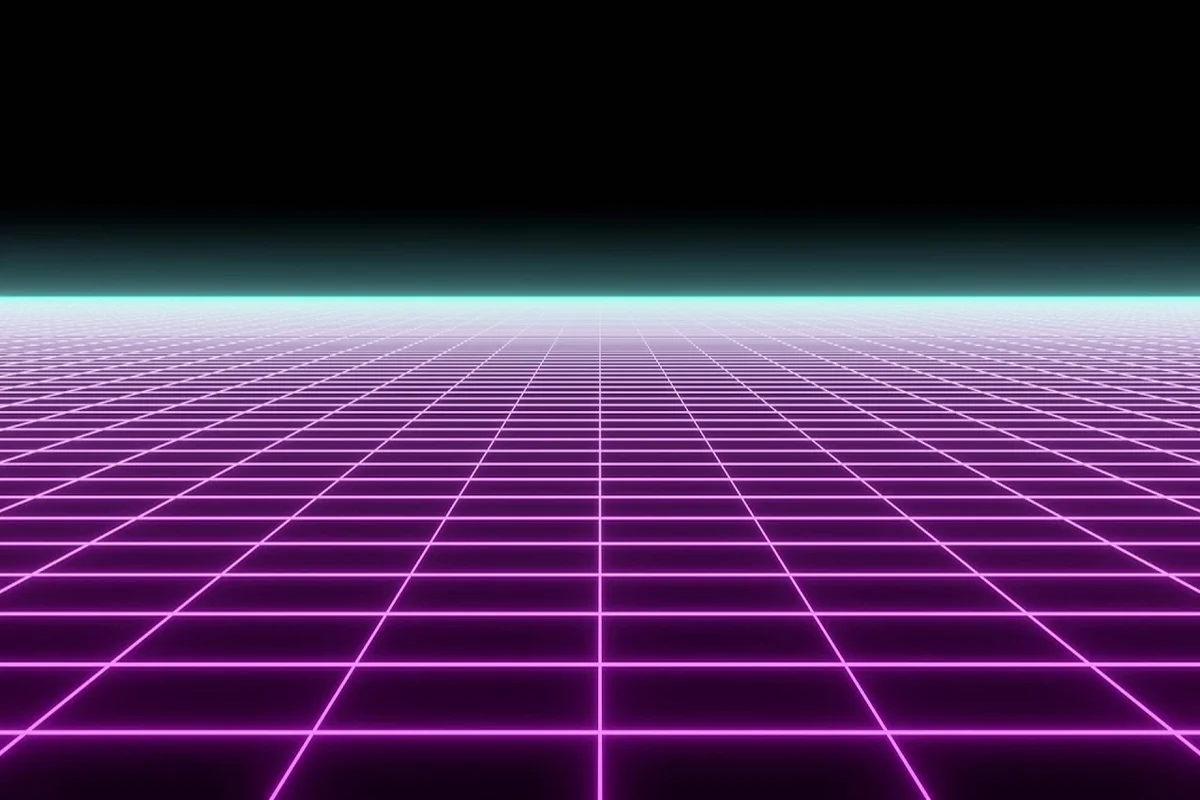
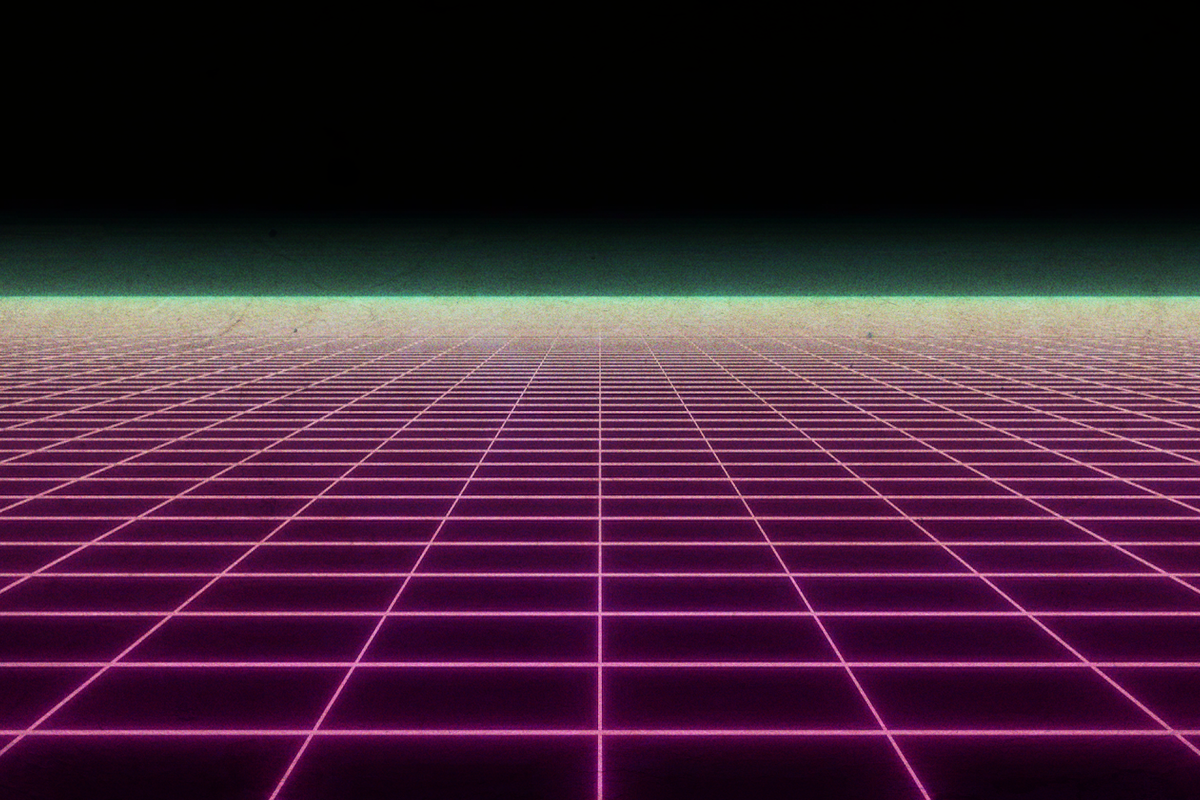
changed background & text

diff --git a/menu.py b/menu.py
@@ -1,4 +1,6 @@
 from PyQt5 import QtWidgets, QtCore, QtGui
+from PyQt5.QtGui import QFont, QFontDatabase
+from PyQt5.QtWidgets import QApplication
 
 from settings import SettingsWindow
 
@@ -8,25 +10,30 @@ class Menu(QtWidgets.QFrame):
         super().__init__()
         self.main_window = main_window
         self.settingsWindow = SettingsWindow()
+        self.setObjectName("MenuWindow")
+        self.setStyleSheet("#MenuWindow{border-image:url(resources/background_menu.png)}")
 
-        font = QtGui.QFont()
-        font.setPointSize(28)
+        QFontDatabase.addApplicationFont("resources/BNKGOTHM.TTF")
+        font = QtGui.QFont("BankGothic Md BT", 32)
+        style = "background-color: rgba(255, 255, 255, 0); color: rgb(255, 255, 255);"
 
         self.start_btn = QtWidgets.QPushButton(self)
         self.start_btn.setGeometry(QtCore.QRect(450, 350, 300, 100))
         self.start_btn.setFont(font)
         self.start_btn.setObjectName("start_btn")
         self.start_btn.clicked.connect(lambda: self.main_window.change_window(1))
+        self.start_btn.setStyleSheet(style)
 
         self.config_btn = QtWidgets.QPushButton(self)
-        self.config_btn.setGeometry(QtCore.QRect(450, 500, 300, 100))
+        self.config_btn.setGeometry(QtCore.QRect(450, 450, 300, 100))
         self.config_btn.setFont(font)
         self.config_btn.setObjectName("config_btn")
         self.config_btn.clicked.connect(self.settingsWindow.open_settings)
+        self.config_btn.setStyleSheet(style)
 
         self._retranslate_ui()
 
     def _retranslate_ui(self):
         _translate = QtCore.QCoreApplication.translate
-        self.start_btn.setText(_translate("Menu", "Играть"))
-        self.config_btn.setText(_translate("Menu", "Настройки"))
+        self.start_btn.setText(_translate("Menu", "play"))
+        self.config_btn.setText(_translate("Menu", "settings"))

diff --git a/game.py b/game.py
@@ -26,6 +26,10 @@ class Game(QtWidgets.QFrame):
         self.backMenu_btn.setIconSize(QtCore.QSize(55, 40))
         self.backMenu_btn.clicked.connect(self.back_menu_action)
 
+        self.label_1 = QtWidgets.QLabel(self)
+        self.label_1.setFont(QtGui.QFont('BankGothic Md BT', 30))
+
+
         levels = list()
         levels.append(Level.parse("level1.txt", self.screen_size))
         levels.append(Level.parse("level2.txt", self.screen_size))
@@ -46,8 +50,10 @@ class Game(QtWidgets.QFrame):
         painter.begin(self)
         painter.setPen(QtGui.QPen(QtCore.Qt.black, 10))
         if self.model.finished:
-            rect = QRect(0, 0, 1200, 800)
-            painter.drawText(rect, Qt.AlignCenter, "Поздравляем! Ты прошел игру")
+            self.label_1.adjustSize()
+            self.label_1.setText("Congrants! You win!")
+            self.label_1.setStyleSheet("color: rgb(255, 255, 255);")
+            self.label_1.move(320, 350)
         else:
             for i in self.model.level.segments:
                 painter.drawLine(*i.start, *i.end)

diff --git a/settings.py b/settings.py
@@ -1,4 +1,5 @@
 from PyQt5 import QtWidgets, QtGui, QtCore
+from PyQt5.QtGui import QFontDatabase
 from PyQt5.QtWidgets import *
 
 
@@ -9,14 +10,17 @@ class SettingsWindow(QtWidgets.QFrame):
         self.window.setWindowTitle('Settings')
         self.window.setFixedSize(300, 400)
         self.window.setWindowIcon(QtGui.QIcon("resources/Icon.png"))
+        self.window.setObjectName("SettingsWindow")
+        self.window.setStyleSheet("#SettingsWindow{border-image:url(resources/background_settings.png)}")
 
-        font = QtGui.QFont()
-        font.setPointSize(20)
+        font = QtGui.QFont("BankGothic Md BT", 20)
+        style = "background-color: rgba(255, 255, 255, 0); color: rgb(255, 255, 255);"
 
         self.sound_btn = QRadioButton(self.window)
         self.sound_btn.setObjectName(u"sound_btn")
-        self.sound_btn.setGeometry(QtCore.QRect(50, 20, 150, 60))
+        self.sound_btn.setGeometry(QtCore.QRect(50, 170, 150, 60))
         self.sound_btn.setFont(font)
+        self.sound_btn.setStyleSheet(style)
 
         self._retranslate_ui()
 

diff --git a/game_model.py b/game_model.py
@@ -130,7 +130,7 @@ class GameModel:
         prev_seg_num = prev_ball.segment_number
         self.level.move_ball(prev_ball, prev_ball.radius * 2)
         new_ball = Ball(
-            self.level.userBallS.moving[0].color,
+            self.level.user_balls.moving[0].color,
             prev_ball.position, prev_ball.segment_number
         )
         prev_ball.position = prev_pos
